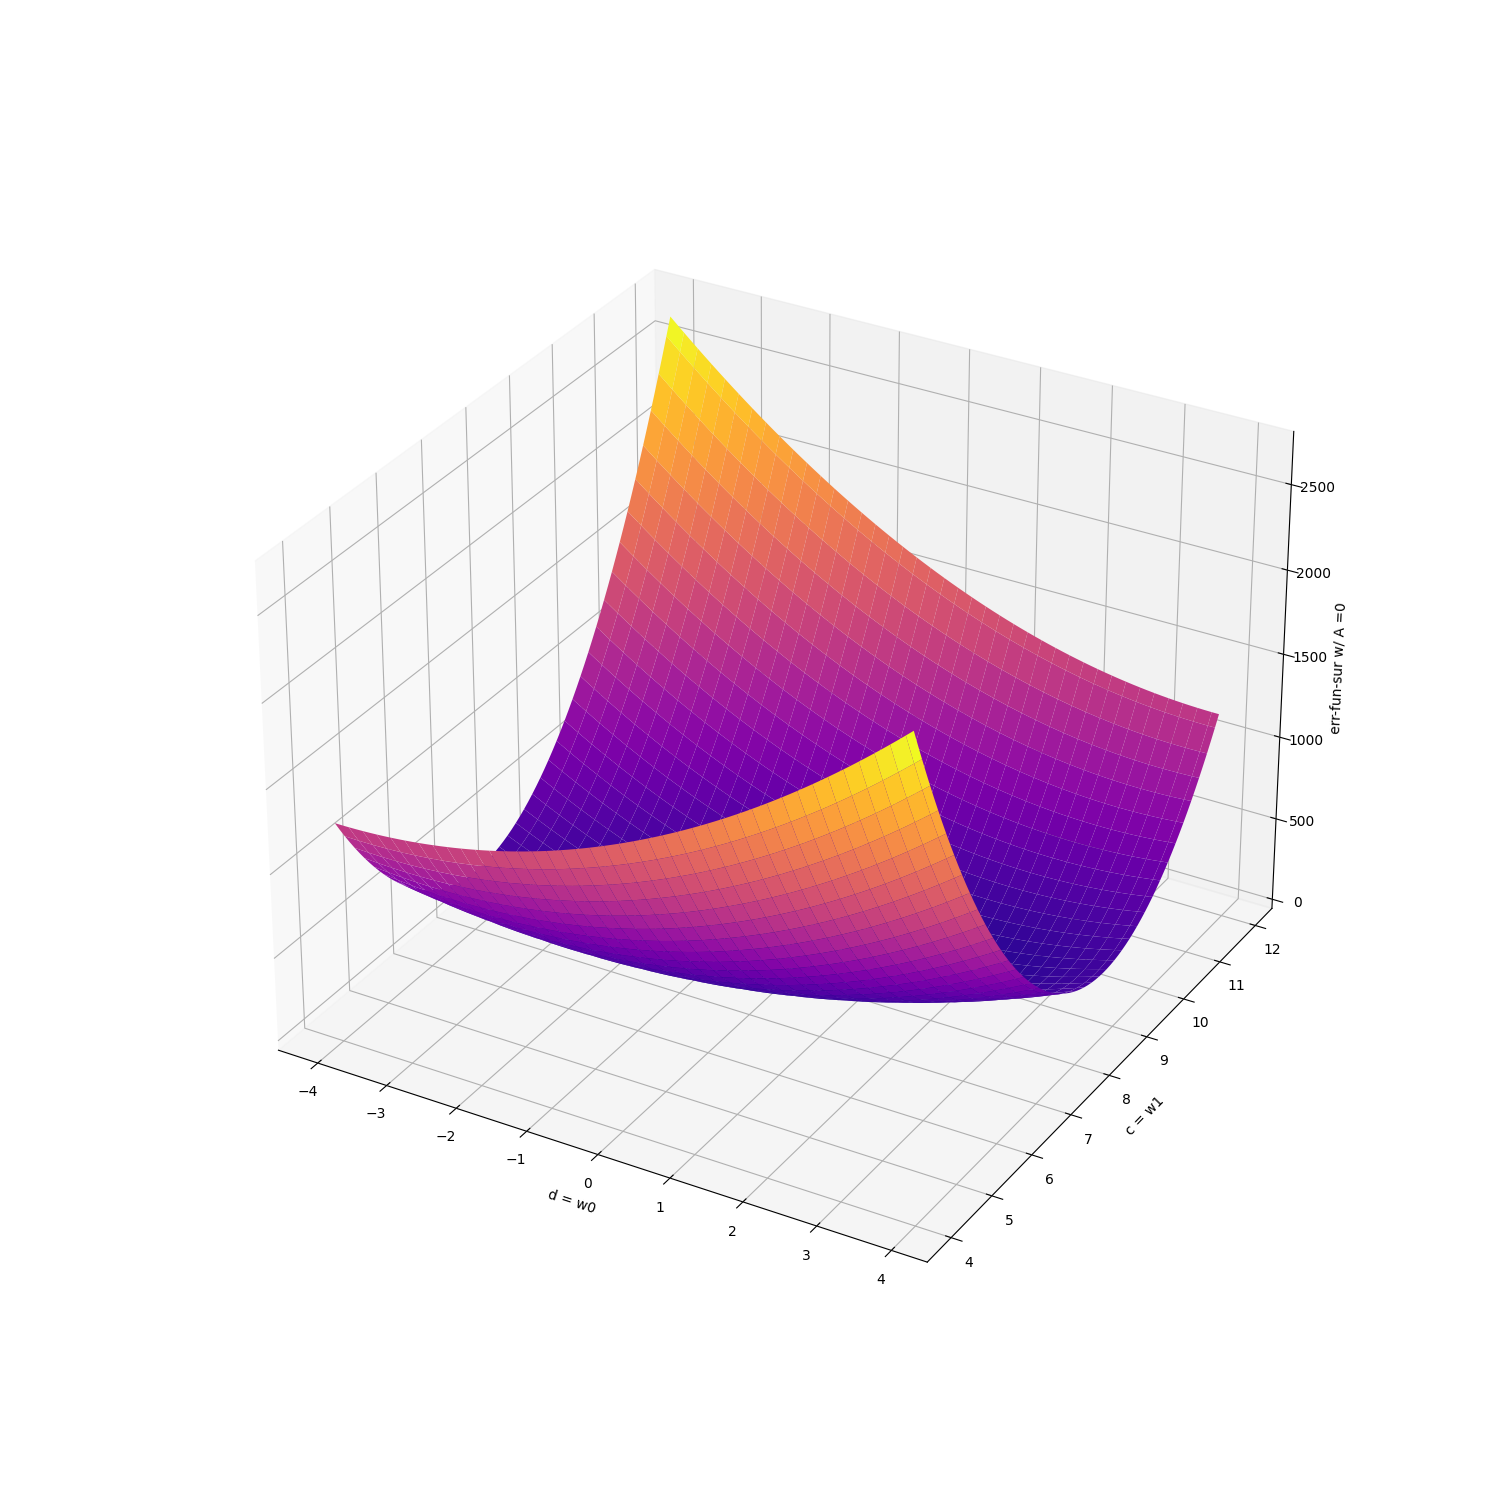
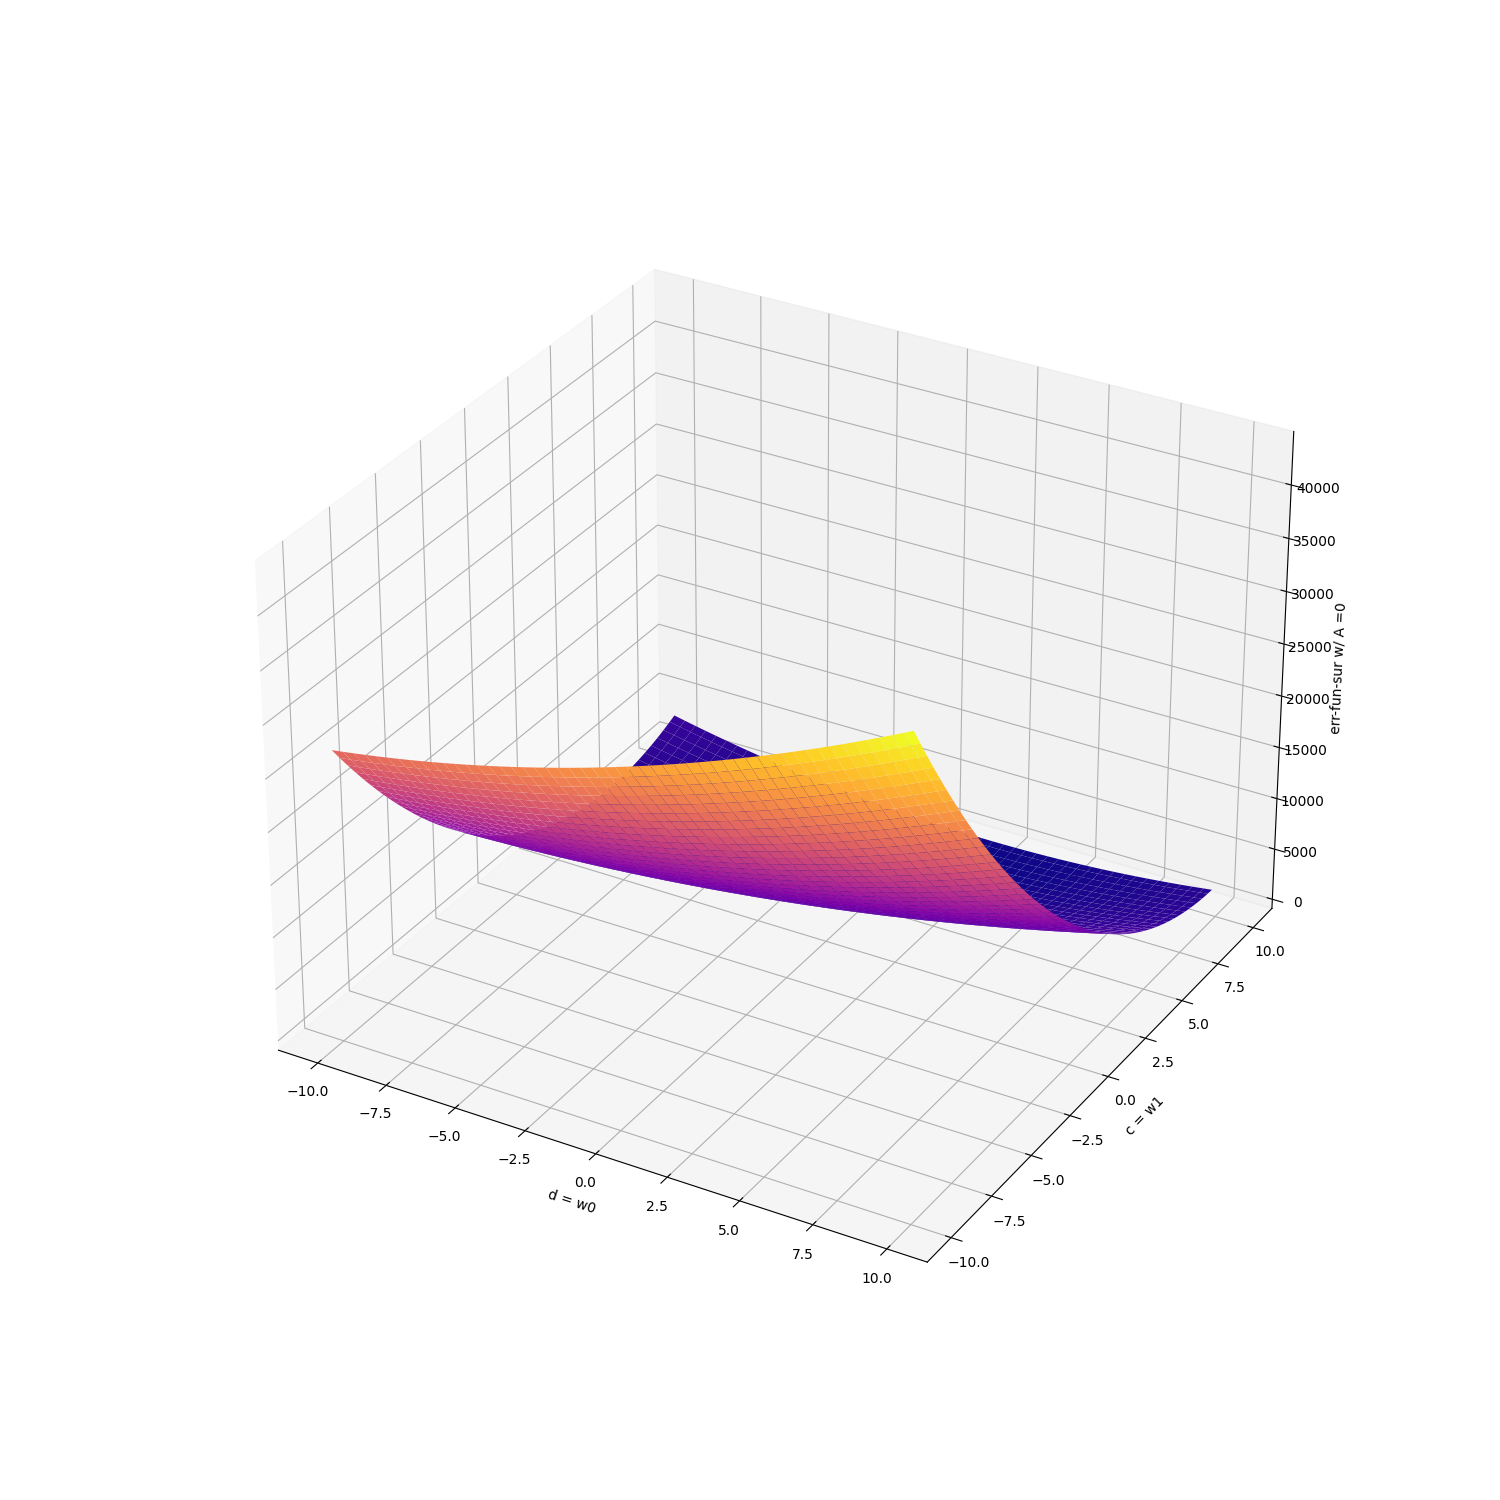
genetic algorithm used - results improved

diff --git a/gsl.py b/gsl.py
@@ -1,0 +1,175 @@
+import random
+
+
+class Being:
+	__mut_prob: None
+	__dev_amp: None
+	__borders: None
+	__f: None
+
+	def __init__(self):
+		self.__chromes = [0, 0]
+
+	@classmethod
+	def mut_prob(cls):
+		return cls.__mut_prob
+
+	@classmethod
+	def dev_amp(cls):
+		return cls.__dev_amp
+
+	@classmethod
+	def borders(cls):
+		return cls.__borders
+
+	@classmethod
+	def f(cls):
+		return cls.__f
+
+	@classmethod
+	def set_mut_prob(cls, mut_prob):
+		cls.__mut_prob = mut_prob
+
+	@classmethod
+	def set_dev_amp(cls, dev_amp):
+		cls.__dev_amp = dev_amp
+
+	@classmethod
+	def set_borders(cls, borders):
+		cls.__borders = borders
+
+	@classmethod
+	def set_f(cls, f):
+		cls.__f = f
+
+	@staticmethod
+	def custom_sort_key(b):
+		return b.fit()
+
+	@classmethod
+	def show_meta(cls):
+		print('Settings')
+		print(f'Deviation share amplitude: {cls.dev_amp()}')
+		print(f'Mutation probability: {cls.mut_prob()}')
+		print(f'Borders:')
+		print(f'x [ {cls.borders()[0][0]} ; {cls.borders()[0][1]} ]')
+		print(f'y [ {cls.borders()[1][0]} ; {cls.borders()[1][1]} ]')
+
+	@staticmethod
+	def generate(n):
+		return [Being().rand() for i in range(n)]
+
+	def rand(self):
+		self.set_all(random.uniform(Being.borders()[0][0], Being.borders()[0][1]), random.uniform(
+			Being.borders()[1][0], Being.borders()[1][1]))
+		return self
+
+	def set(self, i, val):
+		self.__chromes[i] = val
+		return self
+
+	def set_all(self, x, y):
+		self.set(0, x).set(1, y)
+		return self
+
+	def get(self, i):
+		return self.__chromes[i]
+
+	def mutate(self, ci):
+		val = random.random() * Being.dev_amp() * (Being.borders()[ci][1] - Being.borders()[ci][0])
+		if random.random() < 0.5:
+			val *= -1
+		if self.get(ci) + val < Being.borders()[ci][0]:
+			self.set(ci, Being.borders()[ci][0])
+			return self
+		if self.get(ci) + val > Being.borders()[ci][1]:
+			self.set(ci, Being.borders()[ci][1])
+			return self
+		self.set(ci, self.get(ci) + val)
+		return self
+
+	def fit(self):
+		return Being.f()(self.get(0), self.get(1))
+
+	def values(self):
+		return [self.get(0), self.get(1), self.fit()]
+
+	def crossing(self, b):
+		return [
+			Being().set_all(self.get(0), b.get(1)),
+			Being().set_all(b.get(0), self.get(1))
+		]
+
+
+class Generation:
+	__maximum: None
+
+	@classmethod
+	def aim_max(cls):
+		return cls.__maximum
+
+	@classmethod
+	def set_aim_max(cls, flag):
+		cls.__maximum = flag
+
+	def __init__(self, n, bs):
+		bs.sort(key = Being.custom_sort_key, reverse = Generation.aim_max())
+		self.__bs = bs
+		self.__n = n
+
+	@staticmethod
+	def custom_sort_key(g):
+		return g.best_fit()
+
+	def beings(self):
+		return self.__bs
+
+	def best_fit(self):
+		return self.best_being().fit()
+
+	def avg_fit(self):
+		return sum(b.fit() for b in self.beings()) / len(self.beings())
+
+	def n(self):
+		return self.__n
+
+	def best_values(self):
+		return self.best_being().values()
+
+	def best_being(self):
+		return self.beings()[0]
+
+
+def genetic(n, g_lim, maximum = True):
+	Generation.set_aim_max(maximum)
+	bs = Being.generate(n)
+	gen = Generation(0, bs)
+	g0 = gen
+	gens = [gen]
+	nvs = [0]
+	y0vs = [gen.best_fit()]
+	yavs = [gen.avg_fit()]
+
+	for N in range(1, g_lim + 1):
+		progeny = bs[0].crossing(bs[1])
+		progeny.extend(bs[0].crossing(bs[2]))
+		bs = progeny
+
+		for b in bs:
+			if random.random() < Being.mut_prob():
+				b.mutate(0)
+			if random.random() < Being.mut_prob():
+				b.mutate(1)
+
+		gen = Generation(N, bs)
+		if maximum:
+			g0 = max([gen, g0], key = Generation.custom_sort_key)
+		else:
+			g0 = min([gen, g0], key = Generation.custom_sort_key)
+		if N < 10 or N % 10 == 0:
+			gens.append(gen)
+			nvs.append(N)
+			y0vs.append(gen.best_fit())
+			yavs.append(gen.avg_fit())
+
+	return [g0, gens, [nvs, yavs, y0vs]]

diff --git a/main.py b/main.py
@@ -1,32 +1,29 @@
+from gsl import *
 import plots as plt
 import matplotlib.pyplot as mpl
-import algorithms as alg
+
+D, C = 0, 8
 
 
-D = 0
-C = 8
-E = 0.001
-
-
-def fun(x, ws):
+def f_frame(x, ws):
 	return ws[0] + x * ws[1]
 
 
-def fun_by_weights_fun(fun_frame, ws):
+def f_by_weights_f(ff, ws):
 	def fun_by_weights(x):
-		return fun_frame(x, ws)
+		return ff(x, ws)
 	return fun_by_weights
 
 
-def fun_ref(x):
-	return fun_by_weights_fun(fun, [D, C])(x)
+def f(x):
+	return f_by_weights_f(f_frame, [D, C])(x)
 
 
-def fun_error_to_fun_by_weights(dots):
-	def fun_to_return(ws):
-		fun_predicted = fun_by_weights_fun(fun, ws)
+def f_error_to_f_by_weights(dots):
+	def f_to_return(ws):
+		fun_predicted = f_by_weights_f(f_frame, ws)
 		return sum((fun_predicted(x) - dots[1][i]) ** 2 for i, x in enumerate(dots[0]))
-	return fun_to_return
+	return f_to_return
 
 
 def gradient(dots):
@@ -41,34 +38,47 @@ def f_args_from_list_to_positional(fun_to_modify):
 	return f_return
 
 
-def conduct_experiment(rf, a, b, N, A):
+def conduct_experiment(rf, a, b, N, A, pop, gens, mp, max_flag = False):
 	dots = plt.get_dots(rf, a, b, N, A)
-	error_fun = fun_error_to_fun_by_weights(dots)
-	gs_search = alg.golden_section(error_fun)
+	error_fun = f_args_from_list_to_positional(f_error_to_f_by_weights(dots))
+
+	Being.set_mut_prob(mp)
+	Being.set_dev_amp(0.05)  # let it be as a default
+	Being.set_borders([[-10, 10], [-10, 10]])  # pretty wide range
+	Being.set_f(error_fun)
+	ws = genetic(pop, gens, maximum = max_flag)[0].best_being().values()[:2]
+
 	coefficients = gradient(dots)
 	mpl.title(f'plots w/ A = {A}')
 	plt.add_fun_to_plot(mpl, rf, 'given function')
-	plt.add_fun_to_plot(mpl, fun_by_weights_fun(fun, gs_search[0]), 'golden-passive function')
-	plt.add_fun_to_plot(mpl, fun_by_weights_fun(fun, coefficients), 'gradient function')
+	plt.add_fun_to_plot(mpl, f_by_weights_f(f_frame, ws), 'genetic function')
+	plt.add_fun_to_plot(mpl, f_by_weights_f(f_frame, coefficients), 'gradient function')
 	plt.add_dots_to_plot(mpl, dots)
 	mpl.legend()
 	mpl.show()
+
 	with open('results.txt', 'a') as file:
 		file.write(f'experiment w/ A = {A}\n')
-		file.write(f'golden-passive coeffs: {gs_search[0]}\n')
-		file.write(f'lowest squares method coeffs: {coefficients}\n\n')
-	plt.graph(f_args_from_list_to_positional(error_fun), -4, 4, 4, 12, f'err-fun-sur w/ A ={A}')
-	return [dots, coefficients, error_fun, alg.golden_section(error_fun)]
+		file.write(f'genetic coefficients: {ws}\n')
+		file.write(f'lowest squares method coefficients: {coefficients}\n\n')
+	plt.graph(error_fun, -10, 10, -10, 10, f'err-fun-sur w/ A ={A}')
+	return [ws, dots, coefficients]
 
 
 def main():
-	a, b, N, A1, A2 = -4, 2, 24, 10, 0
+	a, b = -4, 2
+	N = 24
+	A1, A2 = 10, 0
+
+	pop = 4
+	gens = 50
+	mut_prob = 0.25
 
 	with open('results.txt', 'w') as file:
 		file.write(f'data given:\nd = w0 = {D}\nc = w1 = {C}\n\n')
 
-	conduct_experiment(fun_ref, a, b, N, A1)
-	conduct_experiment(fun_ref, a, b, N, A2)
+	conduct_experiment(f, a, b, N, A1, pop, gens, mut_prob, False)
+	conduct_experiment(f, a, b, N, A2, pop, gens, mut_prob, False)
 
 
 if __name__ == '__main__':

diff --git a/algorithms.py b/algorithms.py
@@ -1,5 +1,7 @@
 import math
-from main import D, C, E
+from main import D, C
+
+E = 0.001
 
 
 def fix_one_arg(f_two_arg, c):
